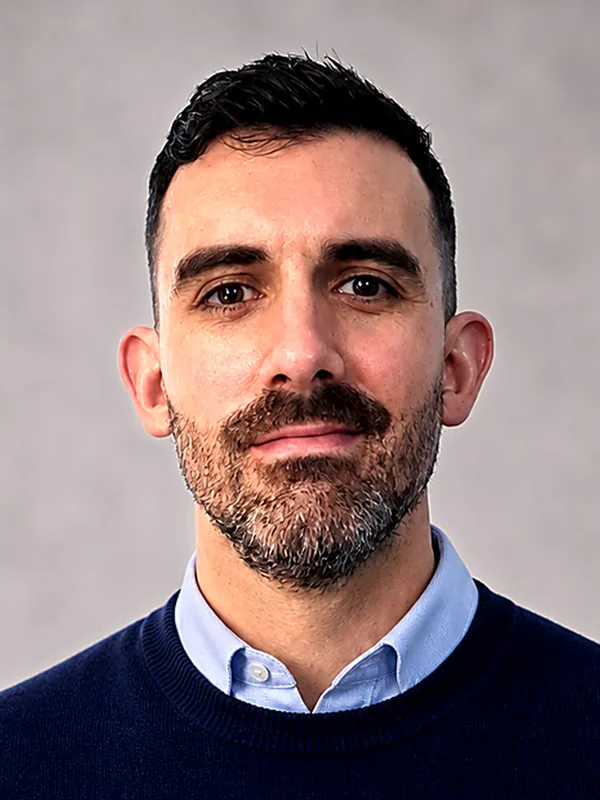
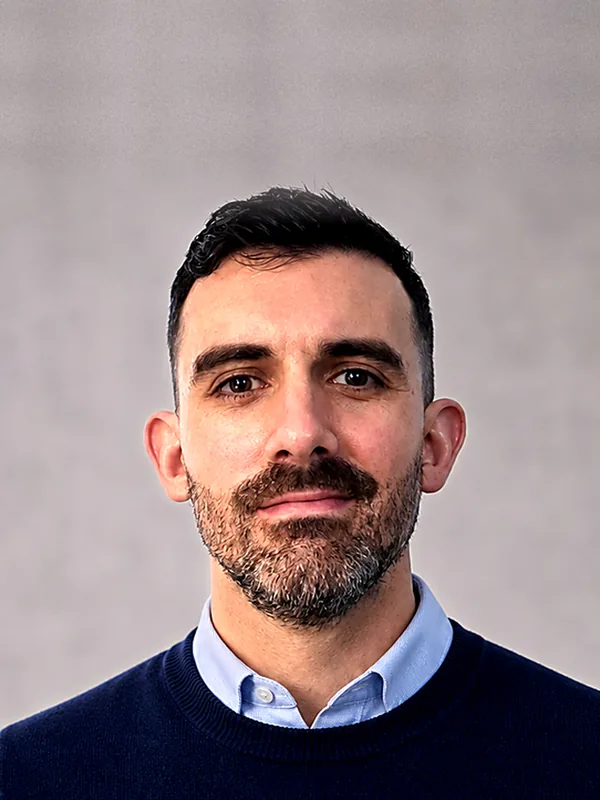
Photo d'À propos : plus de recul (mur prolongé au-dessus de la tête, texture et grain repris, raccord fondu) et parallax plus discret (zoom 1,06 au lieu de 1,14, course ±2,5 % au lieu de ±6 %) : la tête n'est plus coupée en haut.

diff --git a/src/static/css/sections/_about.css b/src/static/css/sections/_about.css
@@ -206,9 +206,11 @@ html[data-theme="dark"] .about__chip {
   }
 }
 
+/* Course courte et zoom léger : juste de quoi couvrir le déplacement (2 × 2,5 % < 6 %),
+   la tête garde son air au-dessus (la photo a du recul, ressources/portrait/). */
 @keyframes aboutPortraitDrift {
-  from { transform: translateY(-6%) scale(1.14); }
-  to { transform: translateY(6%) scale(1.14); }
+  from { transform: translateY(-2.5%) scale(1.06); }
+  to { transform: translateY(2.5%) scale(1.06); }
 }
 
 /* ---------- Texte ---------- */
